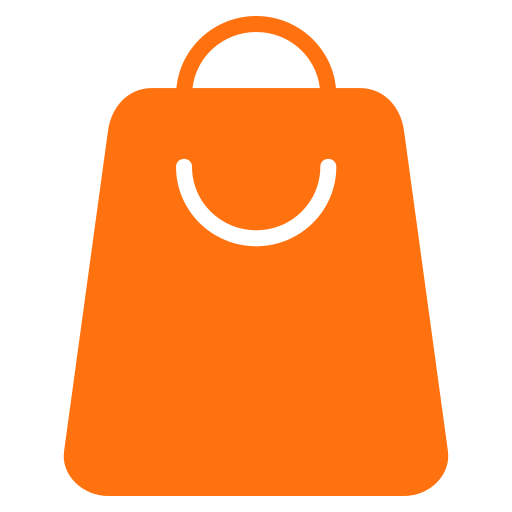
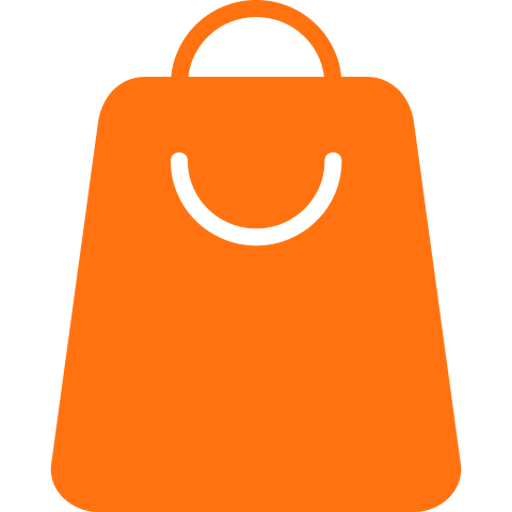
littel adjusts in the structure

diff --git a/index.html b/index.html
@@ -35,23 +35,21 @@
             <h1 class='head-text c-white margin-b'>
                 Viva a experiência de estar no <strong>maior banco digital</strong>
             </h1>
-            <p class='menu-text c-white f-12 lw-85 margin-b2x'>Um banco flexível, com benefícios exclusivos, investimentos
+            <h2 class='menu-text c-white f-12 lw-85 margin-b2x'>Um banco flexível, com benefícios exclusivos, investimentos
                 e muito mais.
-            </p>
+            </h2>
         </div>
 
-        <div class='content-button'>
             <div class="d-flex-aCenter button bg-orange c-white margin-b">
                 <p>Abrir conta</p>
             </div>
-        </div>
     </div>
 
     <div class='content-credit-card d-flex-aCenter'>
-        <div class='pd-2x'>
+        <div class='pd-2x index-2'>
             <p class="head-text c-black">Visa black coberto de <strong>vantagens</strong></p>
         </div>
-        <img src='./assets/images/creditcard-no-shad.png' loading="lazy" alt='a black credit card'>
+        <img src='./assets/images/creditcard-no-shad.png' alt='a black credit card'>
     </div>
 
     <div id='card-benefit' class="pd-2x w-100">
@@ -59,9 +57,9 @@
             <p class='head-text margin-b c-white f-16'>Só quem é <strong><span class="c-orange">b2z
                     </span></strong>consegue viver o <strong>extraordinário</strong></p>
         </div>
-        <div class='cards d-flex-aCenter w-100'>
-            <div class='icon-benefit d-flex-aCenter'>
-                <img src='./assets/images/viagem.png' loading="lazy" alt=''>
+        <div class='cards w-100'>
+            <div class='icon-benefit'>
+                <img src='./assets/images/viagem.png' alt=''>
             </div>
             <div class='benefit-content'>
                 <p class="menu-text margin-l c-white"><strong>Esqueça as milhas!</strong> Até 100% OFF em passagens
@@ -70,38 +68,38 @@
             </div>
         </div>
 
-        <div class='cards d-flex-aCenter w-100'>
-            <div class='icon-benefit d-flex-aCenter'>
-                <img src='./assets/images/sacolas-de-compras.png' loading="lazy" alt=''>
+        <div class='cards w-100'>
+            <div class='icon-benefit'>
+                <img src='./assets/images/sacolas-de-compras.png' alt=''>
             </div>
             <div class='benefit-content'>
                 <p class="menu-text margin-l c-white">Compras online em lojas parceiras geram descontos de até 50% </p>
             </div>
         </div>
 
-        <div class='cards d-flex-aCenter w-100'>
-            <div class='icon-benefit d-flex-aCenter'>
-                <img src='./assets/images/hotel.png' loading="lazy" alt=''>
+        <div class='cards w-100'>
+            <div class='icon-benefit'>
+                <img src='./assets/images/hotel.png' alt=''>
             </div>
             <div class='benefit-content'>
                 <p class="menu-text margin-l c-white">Reservas com 40% de desconto nos Hotéis mais exclusivos</p>
             </div>
         </div>
 
-        <div class='cards d-flex-aCenter w-100'>
-            <div class='icon-benefit d-flex-aCenter'>
-                <img src='./assets/images/food.png' loading="lazy" alt=''>
+        <div class='cards w-100'>
+            <div class='icon-benefit '>
+                <img src='./assets/images/food.png' alt=''>
             </div>
             <div class='benefit-content'>
-                <p class="menu-text margin-l c-white">Muitos benefícios em nossos restaurantes parceiros.
-                    La Cocotte Bistrot - São Paulo.
-                    La Brasserie de La Mer - Natal.</p>
+                <p class="menu-text margin-l c-white">Muitos benefícios em nossos restaurantes parceiros.<br>
+<!--                     La Cocotte Bistrot - São Paulo.<br>
+                    La Brasserie de La Mer - Natal.</p> -->
             </div>
         </div>
 
         <div class="button-all-benefit bg-white d-flex-aCenter w-100">
             <p class="menu-text c-black fw-500">Ver todos os benefícios</p><img class="s25px"
-                src="./assets/images/more.png" loading="lazy" alt="">
+                src="./assets/images/more.png" alt="">
         </div>
     </div>
 
@@ -110,7 +108,7 @@
             <p class='head-text c-white btzelas-title f-22'><strong class="c-black">b2z</strong>Elas</p>
         </div>
         <div class="w-100 b2zelas-index b2zelas-description">
-            <p class='description c-white margin-b fw-500 lw-85'>Um espaço exclusivo para mulheres empreendedoras ou que
+            <p class='head-text c-white margin-b2x fw-500'>Um espaço exclusivo para mulheres empreendedoras ou que
                 estejam começando.
             </p>
             <div class="button bg-black c-white d-flex-aCenter w-100">
@@ -122,19 +120,18 @@
 
     <div id="transaction-app" class="w-100">
         <p class='head-text c-white f-16 margin-b'>Transações na palma da sua mão</p>
-        <p class='menu-text c-white f-12 lw-85 margin-b2x'>Tenha a melhor experiência ao controlar suas transações dentro do nosso
+        <p class='menu-text c-white f-12 lw-85'>Tenha a melhor experiência ao controlar suas transações dentro do nosso
             App.
         </p>
-        <div class="hand-img-content w-100">
-            <img class="hand-image" src="./assets/images/hand.png" loading="lazy" alt="graphic of investiments">
+        <div class="hand-img-content">
+            <img class="hand-image" src="./assets/images/b2z-app.png" alt="graphic of investiments">
         </div>
-        <img class="waves-bg" src="./assets/images/waveshites.png" alt="">
     </div>
 
     <div id="investiments-content" class="pd-2x">
         <p class="head-text c-black f-16 margin-b2x ">Você no controle total dos investimentos</p>
         <div id="investiments" class="margin-b2x">
-            <img class="w-100" src="./assets/images/graphic.png" loading="lazy"
+            <img class="w-100" src="./assets/images/graphic.png"
                 alt="gráficos simulando meses de investimento">
         </div>
         <div class="button bg-black c-white d-flex-aCenter">

diff --git a/styles/style.css b/styles/style.css
@@ -69,21 +69,29 @@
 
 header {
     background: var(--black-secondary);
-    border-bottom: solid 1px #eeeeee07;
-    height: 70px;
+    border-bottom: solid 1px #eeeeee17;
+    height: 64px;
     padding: 0 2rem;
     position: absolute;
     width: 100vw;
     z-index: 99;
 }
 
+#logo {
+    height: 20px;
+}
+
+.index-2 {
+    position: relative;
+    z-index: 2;
+}
+
 
 .button {
-    border-radius: 0.5rem;
-    height: 60px;
+    border-radius: 2rem;
+    height: 48px;
     justify-content: center;
     width: auto;
-    padding: 2rem;
 }
 
 
@@ -102,7 +110,7 @@ header {
 }
 
 #logo-content {
-    height: 100%;
+    height: 30px;
     position: relative;
 }
 
@@ -115,8 +123,9 @@ header {
     background-position: center;
     background-size: cover;
     background-repeat: no-repeat;
-    padding: 8rem 2rem 1rem 2rem;
+    padding: 8rem 2rem 2rem 2rem;
     position: relative;
+    z-index: 1;
 }
 
 .waves-bg {
@@ -183,6 +192,8 @@ header {
     padding: 1rem;
     transition: 0.2s;
     user-select: none;
+    display: grid;
+    grid-template-columns: 20% 2fr;
 }
 
 .cards:hover {
@@ -191,50 +202,59 @@ header {
 }
 
 .icon-benefit {
+    width: 3rem;
     border-right: solid 1px #eeeeee09;
     border-radius: 0.5rem;
     padding: 0.5rem;
-    justify-content: start;
+    justify-self: center;
+    align-self: center;
 }
+/* 
+.benefit-content {
+} */
 
 .icon-benefit img {
-    width: 30px;
+    width: 100%;    
 }
 
 .button-all-benefit  {
     background-color: (--white-coffee);
     border: solid 1px rgba(255, 255, 255, 0.082);
-    border-radius: .8rem;
+    border-radius: 2rem;
     cursor: pointer;
+    margin-top: 1rem;
     justify-content: space-between;
-    padding: 1rem 1.5rem;
+    padding: 0.85rem 1.5rem;
     transition: 0.2s;
 }
 
 #investiments-content {
     background: var(--white-coffee);
-    border-radius: 3rem;
+    border-radius: 2rem;
     display: flex;
+    margin-top: 2rem;
     flex-direction: column;
     justify-content: space-around;
     height: auto;
 }
 
 #transaction-app {
-    align-items: start;
+    background-image: url('/assets/images/Prancheta63.png');
+    background-position-y: 100px;
+    background-repeat: no-repeat;
+    background-size: cover;
     padding: 2rem 2rem 0 2rem;
-    position: relative;
 }
 
 .hand-img-content {
-    height: 65vh;
+    overflow-y: hidden;
+    align-items: center;
+    display: flex;
+
 }
 
 .hand-image {
-    height: 70%;
-    position: absolute;
-    bottom: 0;
-    z-index: 2;
+    width:100%;
 }
 
 .bg-b2zelas {
@@ -273,14 +293,14 @@ header {
     position: relative;
     align-items: center;
     background-image: url("../assets/images/woman-sitdown.jpg");
-    background-position-x: -400px;
+    background-position-x: -300px;
     background-repeat: no-repeat;
     background-size: cover;
     display: flex;
     justify-content: space-between;
     flex-direction: column;
     border-radius: 1.8rem;
-    height: 100vh;
+    height: 80vh;
     width: 100%;
 }
 

diff --git a/styles/typography.css b/styles/typography.css
@@ -37,8 +37,8 @@
 /* ========== Fonts settings */
 .head-text{
     font-weight: 500;
-    font-size: 1.8rem;
-    line-height: 1.3em;
+    font-size: 1.6rem;
+    line-height: 1.4em;
     overflow-wrap: break-word;
 }
 

diff --git a/styles/reset.css b/styles/reset.css
@@ -7,6 +7,7 @@
     margin: 0px;
     outline: none;
     padding: 0px;
+    overflow-x: hidden;
     -webkit-tap-highlight-color: transparent;
 }
 
